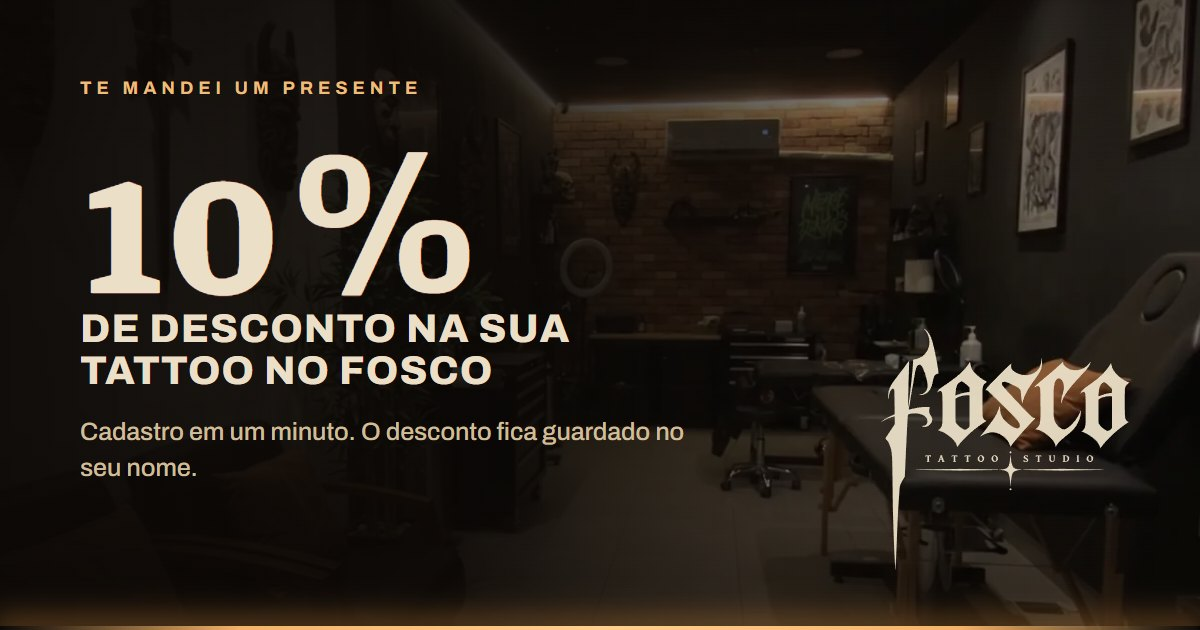
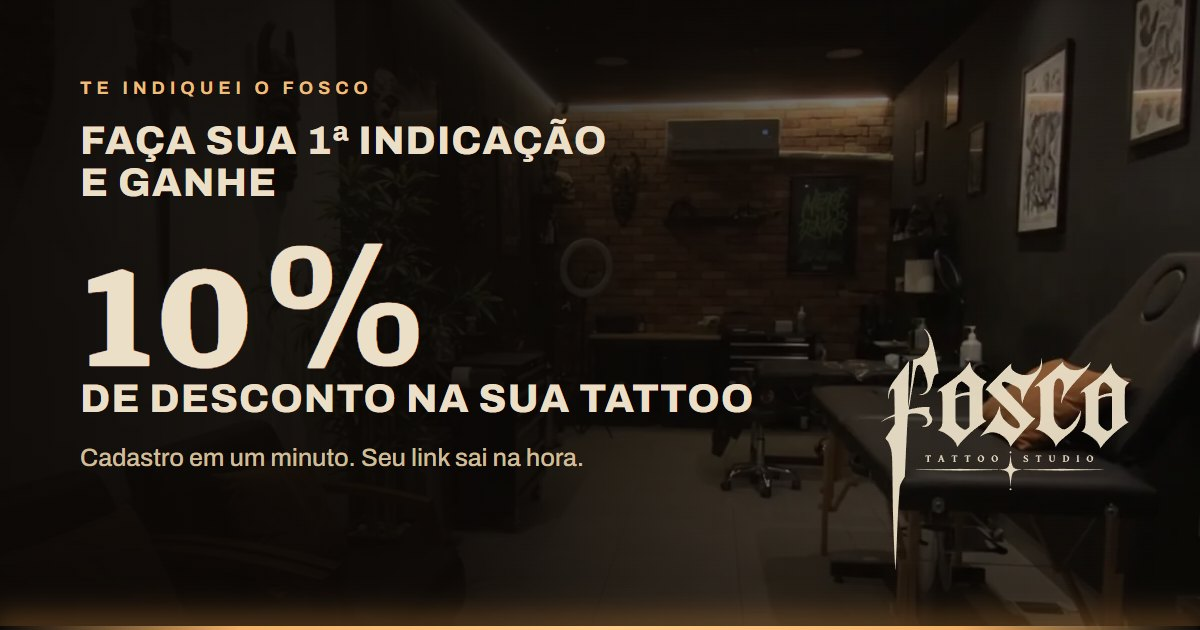
Indicação: quem indica ganha 10% por amigo; o indicado ganha 1% (regra interna)
A propaganda passa a ser para quem indica: «Faça sua 1ª indicação e ganhe 10% de desconto».
O convite, o Indique, o cadastro, a área do cliente, a /bio e a prévia do link deixam de
anunciar presente para o amigo. Banco: pontos_por_indicacao 10, pontos_boas_vindas_indicado 1.

Changed region(s): [[0.0617, 0.181, 0.6475, 0.754], [0.0925, 0.1206, 0.37, 0.1508]]

diff --git a/src/app/convite/Convite.jsx b/src/app/convite/Convite.jsx
@@ -12,8 +12,9 @@ import { supa, minhaArea } from '@/lib/supabase';
 import { useVitrine, guardarIndicacao, lerIndicacao } from '@/lib/vitrine';
 import { instagramUrl, nomeBonito, numero, urlFoto } from '@/lib/formatos';
 
-// A página para onde vai o link de indicação: o presente na abertura, os trabalhos,
-// a equipe, como funciona e o cadastro. Tudo leva para o mesmo botão.
+// A página para onde vai o link de indicação: a chamada para indicar na abertura, os
+// trabalhos, a equipe, como funciona e o cadastro. Tudo leva para o mesmo botão.
+// O ponto que o amigo ganha ao chegar pelo convite é regra interna e não aparece aqui.
 export default function Convite() {
   const router = useRouter();
   const { programa, estudio, instagram } = useVitrine();
@@ -25,9 +26,7 @@ export default function Convite() {
   const abertura = useRef(null);
   const cadastro = useRef(null);
 
-  const percentual = Number(programa.percentual_por_ponto) || 1;
-  const presente = Number(programa.pontos_boas_vindas_indicado ?? 10) * percentual;
-  const porAmigo = Number(programa.pontos_por_indicacao) * percentual || 1;
+  const porAmigo = Number(programa.pontos_por_indicacao) * (Number(programa.percentual_por_ponto) || 1) || 10;
   const max = Number(programa.desconto_maximo) || 50;
   const fotos = (instagram || []).slice(0, 12);
 
@@ -60,7 +59,7 @@ export default function Convite() {
     return () => olho.disconnect();
   }, []);
 
-  const pct = `${numero(presente)}%`;
+  const pct = `${numero(porAmigo)}%`;
 
   return (
     <>
@@ -76,7 +75,7 @@ export default function Convite() {
       </header>
 
       <main className="bg-noite">
-        {/* abertura: o presente */}
+        {/* abertura: a chamada para indicar */}
         <section ref={abertura} className="relative isolate flex min-h-[92svh] flex-col overflow-hidden">
           <div className="absolute inset-x-0 top-0 -z-10 h-[56%] overflow-hidden md:inset-0 md:h-full">
             <Fundo />
@@ -85,18 +84,22 @@ export default function Convite() {
           <div className="relative mx-auto flex w-full max-w-6xl flex-1 flex-col justify-end px-4 pb-14 pt-[110px] sm:px-6 md:justify-center md:pb-20">
             <div className="abertura-texto max-w-[34rem]">
               <p className="text-[12px] font-semibold uppercase tracking-[0.28em] text-ambar-claro">
-                {quem ? `${quem} te mandou um presente` : 'Você recebeu um presente'}
+                {quem ? `${quem} te indicou o Fosco` : 'Você foi indicado ao Fosco'}
               </p>
               <h1 className="mt-4 leading-none text-osso">
-                <span className="block font-gotica text-[clamp(96px,22vw,180px)] font-bold leading-[0.8]">{pct}</span>
-                <span className="titulo mt-3 block text-[clamp(22px,3.4vw,32px)]">de desconto na sua tattoo no Fosco</span>
+                <span className="titulo block text-[clamp(22px,3.4vw,32px)]">
+                  Faça sua 1ª indicação
+                  <br />e ganhe
+                </span>
+                <span className="mt-2 block font-gotica text-[clamp(96px,22vw,180px)] font-bold leading-[0.8]">{pct}</span>
+                <span className="titulo mt-3 block text-[clamp(22px,3.4vw,32px)]">de desconto na sua tattoo</span>
               </h1>
               <p className="mt-5 max-w-[28rem] text-[17px] leading-relaxed text-osso-2">
-                Faz o cadastro em um minuto e o desconto fica guardado no seu nome. Depois é só contar sua ideia pra gente.
+                Faz o cadastro em um minuto e seu link sai na hora. Cada amigo que se cadastrar por ele vale {pct}, até {max}%.
               </p>
               <div className="mt-8 flex flex-wrap items-center gap-x-6 gap-y-4">
                 <a href="#cadastro" className="botao">
-                  Quero meus {pct} <IconeSeta width={17} height={17} />
+                  Quero meu link <IconeSeta width={17} height={17} />
                 </a>
                 <a href="#trabalhos" className="text-[14.5px] font-semibold text-osso-2 underline decoration-osso/30 underline-offset-[6px] hover:text-ambar-claro hover:decoration-ambar">
                   Ver os trabalhos
@@ -159,9 +162,9 @@ export default function Convite() {
             <span className="linha-ambar" />
             <ol className="mt-10 grid gap-8 md:grid-cols-3">
               {[
-                ['Faz o cadastro', `Um minuto, com CPF e WhatsApp. Os seus ${pct} ficam guardados no seu nome.`],
-                ['Conta sua ideia', 'Pelo WhatsApp: o que quer, onde e o tamanho. A gente responde com o orçamento e o artista certo.'],
-                ['Tatua com desconto', 'Na sessão é só avisar. O estúdio confere pelo seu CPF e o desconto entra na hora.'],
+                ['Faz o cadastro', 'Um minuto, com CPF e WhatsApp. Seu link de indicação sai na hora.'],
+                ['Manda pros amigos', `Cada amigo que se cadastrar pelo seu link vale ${pct} de desconto pra você, até ${max}%.`],
+                ['Tatua com desconto', 'Conta sua ideia no WhatsApp e, na sessão, é só avisar. O estúdio confere pelo seu CPF.'],
               ].map(([t, d], i) => (
                 <li key={t} className="border-t border-osso/15 pt-5">
                   <span className="font-gotica text-[44px] font-bold leading-none text-ambar">{i + 1}</span>
@@ -170,9 +173,6 @@ export default function Convite() {
                 </li>
               ))}
             </ol>
-            <p className="mt-10 max-w-2xl rounded-2xl border border-ambar/30 bg-ambar/[0.06] px-5 py-4 text-[15px] leading-relaxed text-osso-2">
-              E você também ganha um link seu: cada amigo que se cadastrar por ele soma mais {numero(porAmigo)}% no seu desconto, até {max}%.
-            </p>
           </div>
         </section>
 
@@ -181,15 +181,15 @@ export default function Convite() {
           <div className="mx-auto grid max-w-6xl gap-12 px-4 sm:px-6 lg:grid-cols-[1fr_1.1fr] lg:gap-16">
             <div className="lg:pt-6">
               <h2 className="titulo text-[clamp(30px,5vw,48px)]">
-                Seus <span className="text-ambar">{pct}</span> estão a um cadastro de distância
+                Sua 1ª indicação já vale <span className="text-ambar">{pct}</span>
               </h2>
               <span className="linha-ambar" />
               <ul className="mt-8 space-y-3.5">
                 {[
                   'Não custa nada',
-                  `O desconto de ${pct} fica guardado no seu nome`,
+                  'Seu link de indicação sai na hora',
+                  `Cada amigo cadastrado vale ${pct}, até ${max}%`,
                   'Promoção só se você marcar que quer, sem spam',
-                  `Seu próprio link: cada amigo vale mais ${numero(porAmigo)}%`,
                 ].map((t) => (
                   <li key={t} className="flex items-start gap-3 text-[16px] text-osso">
                     <IconeCheck width={19} height={19} className="mt-0.5 shrink-0 text-ambar" /> {t}
@@ -206,7 +206,7 @@ export default function Convite() {
                 </Link>
               </div>
             ) : (
-              <FormularioCadastro codigo={codigo} quem={quem} presente={presente} />
+              <FormularioCadastro codigo={codigo} quem={quem} />
             )}
           </div>
         </section>
@@ -218,9 +218,9 @@ export default function Convite() {
             <span className="linha-ambar" />
             <div className="mt-8 divide-y divide-osso/10 border-y border-osso/10">
               {[
-                ['Tem algum custo?', 'Não. O cadastro é de graça e o desconto já vale na sua primeira sessão.'],
-                ['Como eu uso o desconto?', 'Na conversa do orçamento pelo WhatsApp, avise que veio pelo convite. Na sessão o estúdio confere no seu CPF.'],
-                ['Dá pra juntar com mais desconto?', `Dá: com o seu link, cada amigo cadastrado soma ${numero(porAmigo)}%, até ${max}% no total.`],
+                ['Tem algum custo?', 'Não. O cadastro é de graça.'],
+                ['Quando o desconto entra?', `Assim que o amigo se cadastra pelo seu link: ${pct} por amigo, até ${max}% no total. Você acompanha tudo na sua área do site.`],
+                ['Como eu uso o desconto?', 'Na conversa do orçamento pelo WhatsApp, avise que tem desconto. Na sessão o estúdio confere no seu CPF.'],
               ].map(([q, r]) => (
                 <details key={q} className="group py-4">
                   <summary className="flex cursor-pointer list-none items-center justify-between gap-4 text-[16.5px] font-semibold text-osso">
@@ -238,7 +238,7 @@ export default function Convite() {
 
       <div className={`fixed inset-x-0 bottom-0 z-40 border-t border-osso/10 bg-noite/95 p-3 transition duration-300 md:hidden ${barra ? 'translate-y-0' : 'pointer-events-none translate-y-full'}`}>
         <a href="#cadastro" className="botao w-full py-3.5">
-          Quero meus {pct} <IconeSeta width={17} height={17} />
+          Quero meu link <IconeSeta width={17} height={17} />
         </a>
       </div>
     </>

diff --git a/src/app/cadastro/FormCadastro.jsx b/src/app/cadastro/FormCadastro.jsx
@@ -10,14 +10,13 @@ import { useVitrine, lerIndicacao, esquecerIndicacao } from '@/lib/vitrine';
 import { cpfValido, mascaraCpf, mascaraZap, numero, soDigitos } from '@/lib/formatos';
 
 // o formulário em si, usado aqui e na página do convite
-export function FormularioCadastro({ codigo = '', quem = '', presente = 0, className = '' }) {
+export function FormularioCadastro({ codigo = '', quem = '', className = '' }) {
   const router = useRouter();
   const [f, setF] = useState({ nome: '', cpf: '', whatsapp: '', nascimento: '', email: '', senha: '', aceita_promocoes: false, aceite: false });
   const [erros, setErros] = useState({});
   const [erro, setErro] = useState('');
   const [enviando, setEnviando] = useState(false);
   const mudar = (k, fmt) => (e) => setF((x) => ({ ...x, [k]: fmt ? fmt(e.target.value) : e.target.value }));
-  const comPresente = Boolean(codigo && presente > 0);
 
   function validar() {
     const e = {};
@@ -52,15 +51,13 @@ export function FormularioCadastro({ codigo = '', quem = '', presente = 0, class
       router.push('/entrar/?novo=1');
       return;
     }
-    router.push(`/minha-area/?novo=1${comPresente ? '&convite=1' : ''}`);
+    router.push('/minha-area/?novo=1');
   }
 
   return (
     <form onSubmit={enviar} className={`cartao space-y-5 p-5 sm:p-8 ${className}`} noValidate>
       <div>
-        <h2 className="font-corpo text-[22px] font-bold uppercase tracking-[0.04em] text-osso">
-          {comPresente ? `Garanta seus ${numero(presente)}%` : 'Cadastro'}
-        </h2>
+        <h2 className="font-corpo text-[22px] font-bold uppercase tracking-[0.04em] text-osso">Cadastro</h2>
         <p className="mt-2 text-[14px] text-osso-3">Leva um minuto. Você entra depois com CPF e senha.</p>
       </div>
       <Campo rotulo="Nome completo" id="nome" erro={erros.nome}>
@@ -107,7 +104,7 @@ export function FormularioCadastro({ codigo = '', quem = '', presente = 0, class
       {codigo && quem && <p className="font-mono text-[12px] text-osso-3">convite de {quem} · código {codigo}</p>}
       {erro && <Aviso>{erro}</Aviso>}
       <button type="submit" className="botao w-full py-4 text-[16px]" disabled={enviando}>
-        {enviando ? 'Criando seu cadastro...' : comPresente ? `Criar cadastro e garantir meus ${numero(presente)}%` : 'Criar cadastro e pegar meu link'}
+        {enviando ? 'Criando seu cadastro...' : 'Criar cadastro e pegar meu link'}
       </button>
       <p className="text-center text-[14px] text-osso-3">
         Já tem cadastro?{' '}
@@ -137,9 +134,8 @@ export default function FormCadastro() {
     minhaArea().then((data) => data?.cliente && setJaCliente(true));
   }, [router]);
 
-  const porAmigo = Number(programa.pontos_por_indicacao) * Number(programa.percentual_por_ponto) || 1;
+  const porAmigo = Number(programa.pontos_por_indicacao) * Number(programa.percentual_por_ponto) || 10;
   const max = Number(programa.desconto_maximo) || 50;
-  const presente = Number(programa.pontos_boas_vindas_indicado ?? 10) * (Number(programa.percentual_por_ponto) || 1);
 
   if (!pronto) return <div className="min-h-[60svh]" />;
 
@@ -163,8 +159,7 @@ export default function FormCadastro() {
         </h1>
         <span className="linha-ambar" />
         <p className="mt-6 max-w-md text-[17px] leading-relaxed text-osso-2">
-          Cadastre-se e ganhe na hora um link só seu. Cada pessoa que se cadastrar por ele vale {numero(porAmigo)}% de desconto na sua próxima tattoo, até {max}%
-          {presente > 0 && <>, e ela ainda entra com {numero(presente)}% de presente</>}.
+          Faça sua 1ª indicação e ganhe {numero(porAmigo)}% de desconto. O cadastro te dá na hora um link só seu, e cada amigo a mais que se cadastrar por ele soma outros {numero(porAmigo)}%, até {max}%.
         </p>
         <div className="cartao mt-10 hidden p-6 lg:block">
           <Regua valor={Math.round(max * 0.36)} maximo={max} marcos={[Math.round(max / 5), Math.round(max / 2), max]} legenda={(m) => `${Math.ceil(m / porAmigo)} amigos`} />

diff --git a/src/components/inicio/Programa.jsx b/src/components/inicio/Programa.jsx
@@ -43,9 +43,8 @@ export function Indique() {
   const { programa } = useVitrine();
   if (programa.indicacao_ativa === false) return null;
 
-  const porAmigo = Number(programa.pontos_por_indicacao) * Number(programa.percentual_por_ponto) || 1;
+  const porAmigo = Number(programa.pontos_por_indicacao) * Number(programa.percentual_por_ponto) || 10;
   const max = Number(programa.desconto_maximo) || 50;
-  const presente = Number(programa.pontos_boas_vindas_indicado ?? 10) * (Number(programa.percentual_por_ponto) || 1);
   // as tirinhas de destacar do cartaz: quantos amigos, quanto de desconto
   const passos = [0.1, 0.2, 0.4, 0.6, 0.8, 1].map((f) => Math.max(porAmigo, Math.round((max * f) / porAmigo) * porAmigo));
   const tiras = [...new Set(passos)].map((pct) => ({ pct, amigos: Math.ceil(pct / porAmigo) }));
@@ -73,7 +72,7 @@ export function Indique() {
                 <span className="font-gotica text-[44px] font-bold">{numero(porAmigo)}%</span>
               </div>
               <p className="text-[16px] leading-relaxed text-[#3e2f24]">
-                Cada amigo que se cadastrar pelo <b>seu link</b> vira {numero(porAmigo)}% de desconto na sua próxima tattoo, até <b>{max}%</b>.{presente > 0 && <> E ele já entra com <b>{numero(presente)}%</b>.</>}
+                Cada amigo que se cadastrar pelo <b>seu link</b> vira {numero(porAmigo)}% de desconto na sua próxima tattoo, até <b>{max}%</b>.
               </p>
             </div>
           </div>
@@ -110,22 +109,14 @@ export function Indique() {
         {/* a promessa e o como, em três frases */}
         <Revelar atraso={120}>
           <h2 className="titulo text-[clamp(30px,4.4vw,46px)]">
-            {presente > 0 ? (
-              <>
-                Seu amigo ganha {numero(presente)}%. <span className="text-ambar">Você junta até {max}%.</span>
-              </>
-            ) : (
-              <>
-                Até <span className="text-ambar">{max}%</span> de desconto na sua próxima tattoo
-              </>
-            )}
+            Faça sua 1ª indicação e ganhe <span className="text-ambar">{numero(porAmigo)}%</span> de desconto
           </h2>
           <span className="linha-ambar" />
           <ul className="mt-9 space-y-6">
             {[
               ['Faz seu cadastro', 'Leva um minuto. O seu link sai na hora.'],
-              ['Manda pros amigos', presente > 0 ? `Quem se cadastrar pelo seu link já ganha ${numero(presente)}% na primeira tattoo.` : 'No WhatsApp, no direct do Instagram, no grupo da família.'],
-              ['Ganha você também', `Cada amigo cadastrado vale ${numero(porAmigo)}% pra você, até ${max}%. Na sessão, é só avisar.`],
+              ['Manda pros amigos', 'No WhatsApp, no direct do Instagram, no grupo da família.'],
+              ['Ganha a cada amigo', `Cada amigo cadastrado pelo seu link vale ${numero(porAmigo)}% pra você, até ${max}%. Na sessão, é só avisar.`],
             ].map(([t, d], i) => (
               <li key={t} className="flex gap-4">
                 <span className="w-9 shrink-0 font-corpo text-[22px] font-extrabold leading-none text-ambar">0{i + 1}</span>

diff --git a/src/app/minha-area/Area.jsx b/src/app/minha-area/Area.jsx
@@ -29,12 +29,10 @@ function Bloco({ titulo, kicker, children, className = '' }) {
   );
 }
 
-function Compartilhar({ codigo, nome, presente }) {
+function Compartilhar({ codigo, nome, porAmigo }) {
   const [copiou, setCopiou] = useState(false);
   const link = linkIndicacao(codigo);
-  const mensagem = presente > 0
-    ? `Te mandei ${numero(presente)}% de desconto no Fosco Tattoo Studio. É só fazer o cadastro pelo meu link: ${link}`
-    : `Bora tatuar no Fosco? Faz teu cadastro pelo meu link que a gente ganha desconto: ${link}`;
+  const mensagem = `Te indiquei o Fosco Tattoo Studio, aqui em Recife. Faz teu cadastro pelo meu link: na tua 1ª indicação tu ganha ${numero(porAmigo)}% de desconto. Meu link: ${link}`;
   async function copiar() {
     try {
       await navigator.clipboard.writeText(link);
@@ -198,8 +196,8 @@ export default function Area() {
   const max = Number(regras.desconto_maximo);
   const porAmigo = Number(regras.pontos_por_indicacao) * Number(regras.percentual_por_ponto);
   const tatuaram = indicados.filter((i) => i.tatuou).length;
-  const presente = Number(programa.pontos_boas_vindas_indicado ?? 10) * (Number(regras.percentual_por_ponto) || 1);
-  const textoZap = desconto > 0
+  // o ponto de quem chegou pelo convite é regra interna: só fala de desconto quando já veio de indicação
+  const textoZap = desconto >= porAmigo
     ? `Oi! Me cadastrei no site do Fosco e tenho ${numero(desconto)}% de desconto. Quero fazer um orçamento de tattoo.`
     : 'Oi! Me cadastrei no site do Fosco e quero fazer um orçamento de tattoo.';
 
@@ -236,9 +234,9 @@ export default function Area() {
         <div className="mt-6 rounded-2xl border border-ambar/40 bg-ambar/[0.07] p-5 sm:flex sm:items-center sm:justify-between sm:gap-6 sm:p-6">
           <div>
             <p className="text-[17px] font-bold text-osso">
-              {desconto > 0 ? `Cadastro feito! Seus ${numero(desconto)}% já estão guardados.` : 'Cadastro feito!'}
+              Cadastro feito! Faça sua 1ª indicação e ganhe {numero(porAmigo)}% de desconto.
             </p>
-            <p className="mt-1 text-[15px] text-osso-2">Agora conta sua ideia no WhatsApp: o que quer, onde e o tamanho. Seu link pra chamar os amigos está aqui embaixo.</p>
+            <p className="mt-1 text-[15px] text-osso-2">Seu link está aqui embaixo: cada amigo que se cadastrar por ele vale {numero(porAmigo)}%, até {max}%. E quando quiser, conta sua ideia no WhatsApp.</p>
           </div>
           <a href={linkZap(estudio.whatsapp, textoZap)} target="_blank" rel="noopener noreferrer" className="botao mt-4 shrink-0 sm:mt-0">
             <IconeZap width={18} height={18} /> Contar minha ideia
@@ -270,7 +268,7 @@ export default function Area() {
         </Bloco>
 
         <Bloco kicker="seu link de indicação" titulo="Manda pra galera">
-          <Compartilhar codigo={cliente.codigo} nome={primeiroNome(cliente.nome)} presente={presente} />
+          <Compartilhar codigo={cliente.codigo} nome={primeiroNome(cliente.nome)} porAmigo={porAmigo} />
         </Bloco>
       </div>
 

diff --git a/src/components/painel/Ajustes.jsx b/src/components/painel/Ajustes.jsx
@@ -87,10 +87,10 @@ function Programa() {
       <div className="space-y-4">
         <Interruptor ligado={p.indicacao_ativa !== false} aoMudar={(v) => setP({ ...p, indicacao_ativa: v })} rotulo="Indique e ganhe ligado" />
         <div className="grid gap-4 sm:grid-cols-3">
-          {num('pontos_por_indicacao', 'Pontos por amigo cadastrado')}
+          {num('pontos_por_indicacao', 'Pontos por amigo cadastrado', 'Quem indica ganha, a cada amigo que se cadastra pelo link (10 = 10%). É o que o site anuncia.')}
           {num('percentual_por_ponto', '% de desconto por ponto')}
           {num('desconto_maximo', 'Desconto máximo (%)')}
-          {num('pontos_boas_vindas_indicado', 'Presente de quem chega pelo convite', 'Pontos que o amigo ganha ao se cadastrar pelo link (10 = 10% com 1% por ponto).')}
+          {num('pontos_boas_vindas_indicado', 'Pontos de quem chega pelo convite', 'O amigo indicado ganha ao se cadastrar pelo link (1 = 1%). Regra interna: não aparece no site.')}
           {num('pontos_boas_vindas', 'Pontos de boas-vindas pra todos', 'Qualquer cadastro, com ou sem convite (0 = nada).')}
           {num('pontos_indicado_tatuou', 'Bônus quando o indicado tatua', 'Extra pra quem indicou na 1ª sessão do amigo (0 = nada).')}
         </div>

diff --git a/src/app/convite/page.jsx b/src/app/convite/page.jsx
@@ -1,12 +1,12 @@
 import Convite from './Convite';
 
 export const metadata = {
-  title: 'Seu convite · 10% de desconto',
-  description: 'Um amigo te mandou 10% de desconto na sua tattoo no Fosco Tattoo Studio. O cadastro leva um minuto.',
+  title: 'Você foi indicado ao Fosco',
+  description: 'Faça sua 1ª indicação e ganhe 10% de desconto na sua tattoo no Fosco Tattoo Studio, em Recife. O cadastro leva um minuto.',
   openGraph: {
-    title: 'Te mandei 10% de desconto no Fosco',
-    description: 'Cadastro em um minuto e o desconto fica guardado no seu nome. Fosco Tattoo Studio, Recife.',
-    images: [{ url: 'og/convite.jpg', width: 1200, height: 630, alt: 'Convite do Fosco Tattoo Studio: 10% de desconto' }],
+    title: 'Te indiquei o Fosco Tattoo Studio',
+    description: 'Faça sua 1ª indicação e ganhe 10% de desconto. Cadastro em um minuto e seu link sai na hora.',
+    images: [{ url: 'og/convite.jpg', width: 1200, height: 630, alt: 'Fosco Tattoo Studio: faça sua 1ª indicação e ganhe 10% de desconto' }],
   },
 };
 

diff --git a/src/app/bio/Bio.jsx b/src/app/bio/Bio.jsx
@@ -69,7 +69,7 @@ export default function Bio() {
   const fotos = (instagram || []).slice(0, 6);
 
   const opcoes = [
-    programa.indicacao_ativa !== false && { href: '/cadastro/', icone: IconePresente, titulo: `Indique e ganhe até ${programa.desconto_maximo}%`, sub: `Cada amigo cadastrado pelo seu link vale ${numero(porAmigo)}%`, destaque: true },
+    programa.indicacao_ativa !== false && { href: '/cadastro/', icone: IconePresente, titulo: `Indique e ganhe até ${programa.desconto_maximo}%`, sub: `Sua 1ª indicação já vale ${numero(porAmigo)}% de desconto`, destaque: true },
     { href: linkOrcamento(estudio), externo: true, icone: IconeZap, titulo: 'Pedir orçamento', sub: 'Conta sua ideia no WhatsApp' },
     { href: '/cuidados/', icone: IconeGota, titulo: 'Como cuidar da sua tattoo', sub: 'O passo a passo pra cicatrizar bonito' },
     { href: '/entrar/', icone: IconePessoas, titulo: 'Minha área', sub: 'Seus pontos, seu link e o cartão fidelidade' },

diff --git a/src/lib/config.js b/src/lib/config.js
@@ -25,9 +25,9 @@ export const ESTUDIO_PADRAO = {
 
 export const PROGRAMA_PADRAO = {
   indicacao_ativa: true,
-  pontos_por_indicacao: 1,
+  pontos_por_indicacao: 10,
   pontos_boas_vindas: 0,
-  pontos_boas_vindas_indicado: 10,
+  pontos_boas_vindas_indicado: 1,
   pontos_indicado_tatuou: 0,
   percentual_por_ponto: 1,
   desconto_maximo: 50,

diff --git a/README.md b/README.md
@@ -14,7 +14,7 @@ cadastro com link de indicação, cartão fidelidade, área do cliente e painel 
 |---|---|
 | `/` | página inicial |
 | `/bio/` | página de links para a bio do Instagram |
-| `/convite/?i=codigo` | para onde vai o link de indicação: o presente de quem chega (`pontos_boas_vindas_indicado`, 10 = 10%), trabalhos, equipe e cadastro |
+| `/convite/?i=codigo` | para onde vai o link de indicação: «faça sua 1ª indicação e ganhe 10%» (`pontos_por_indicacao` = 10), trabalhos, equipe e cadastro. O amigo que chega ganha 1 ponto (`pontos_boas_vindas_indicado`), regra interna que o site não anuncia |
 | `/cadastro/` | cadastro de quem quer o próprio link (com código, manda para o convite) |
 | `/cuidados/` | como cuidar da tattoo |
 | `/entrar/`, `/minha-area/` | login (CPF + senha) e área do cliente |
